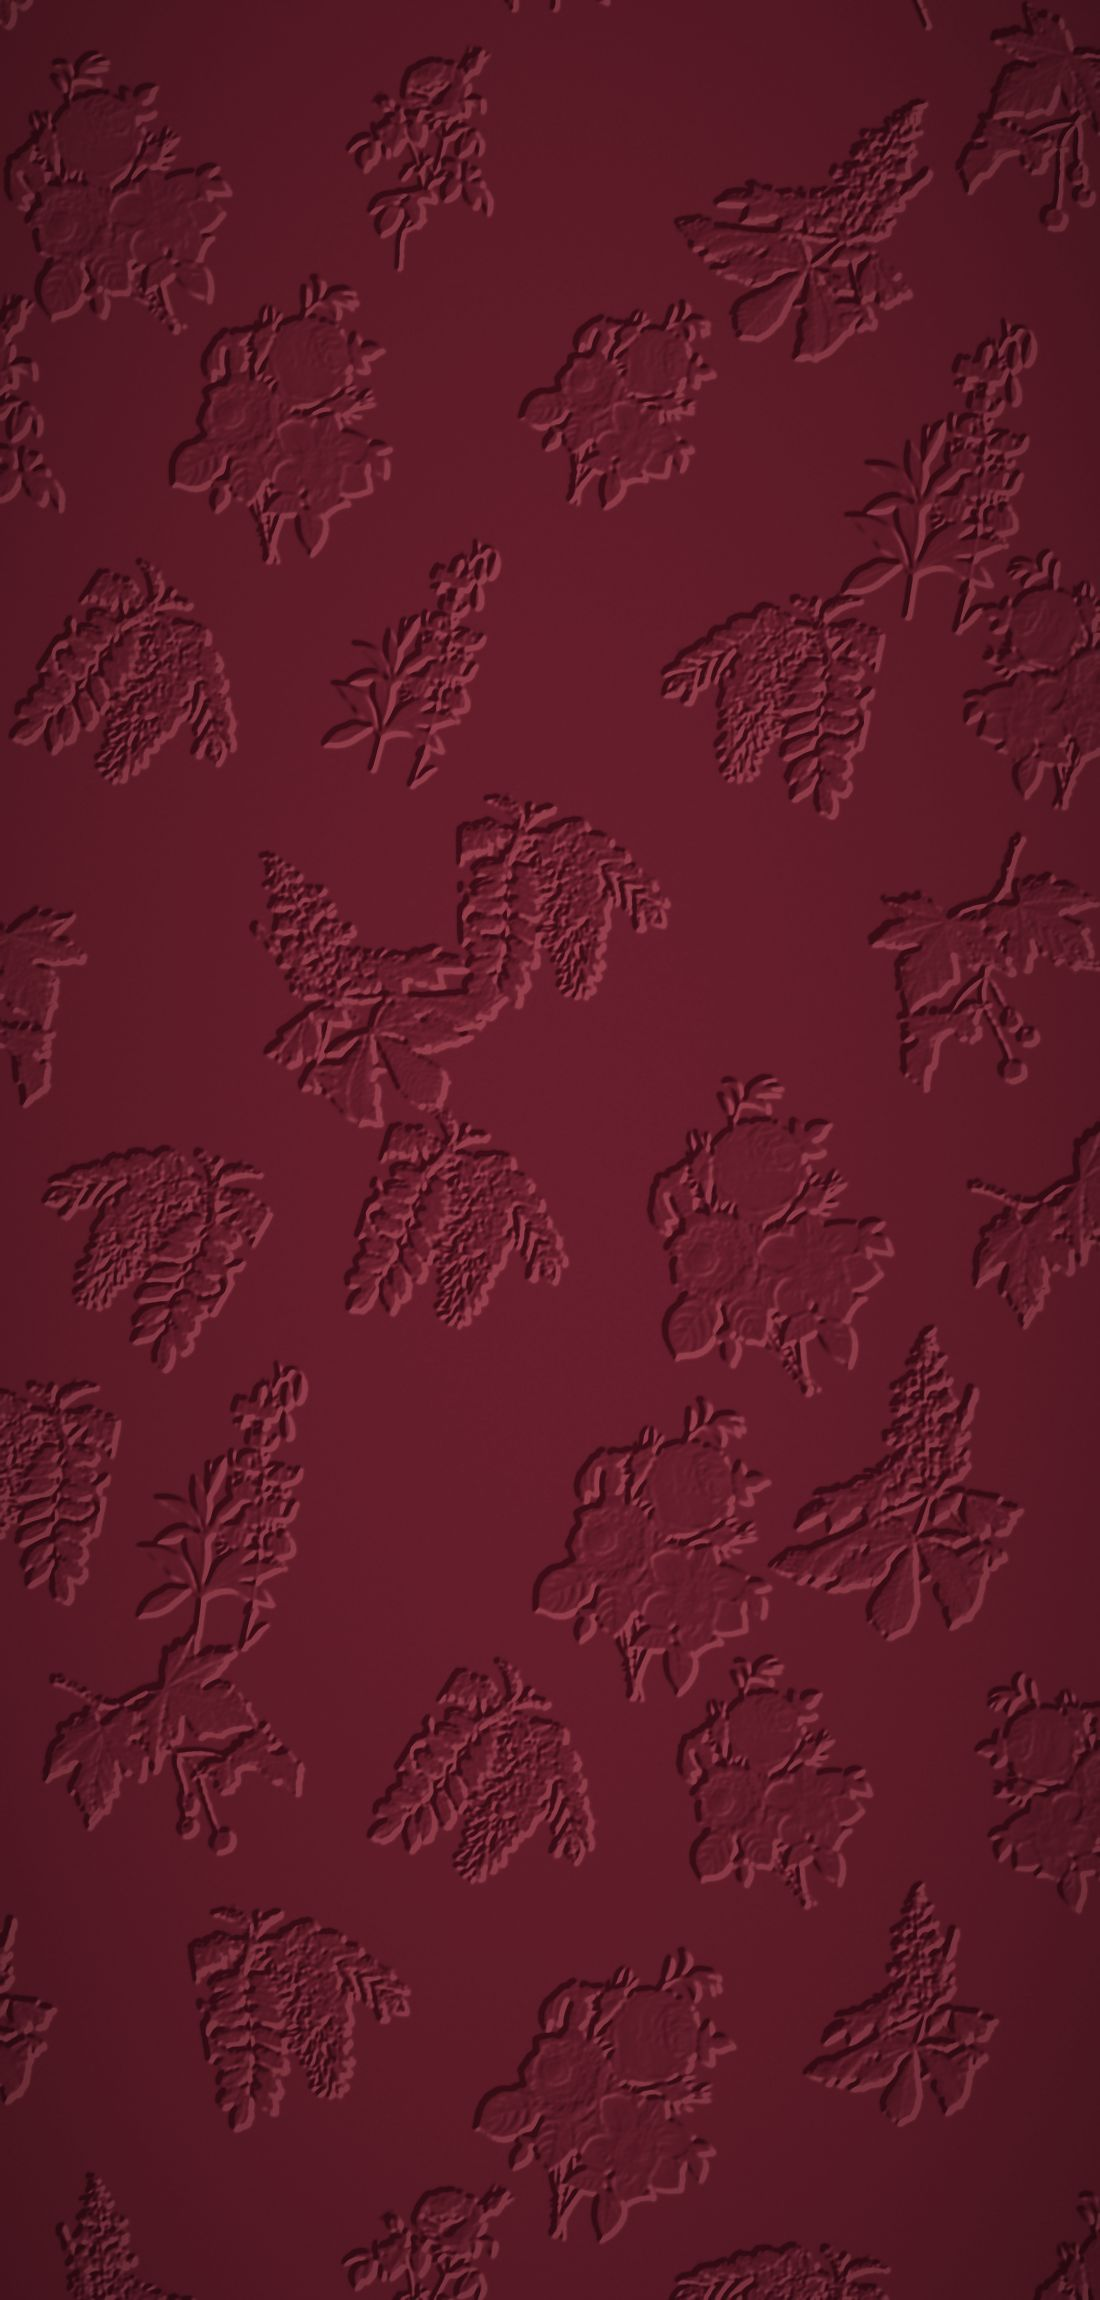
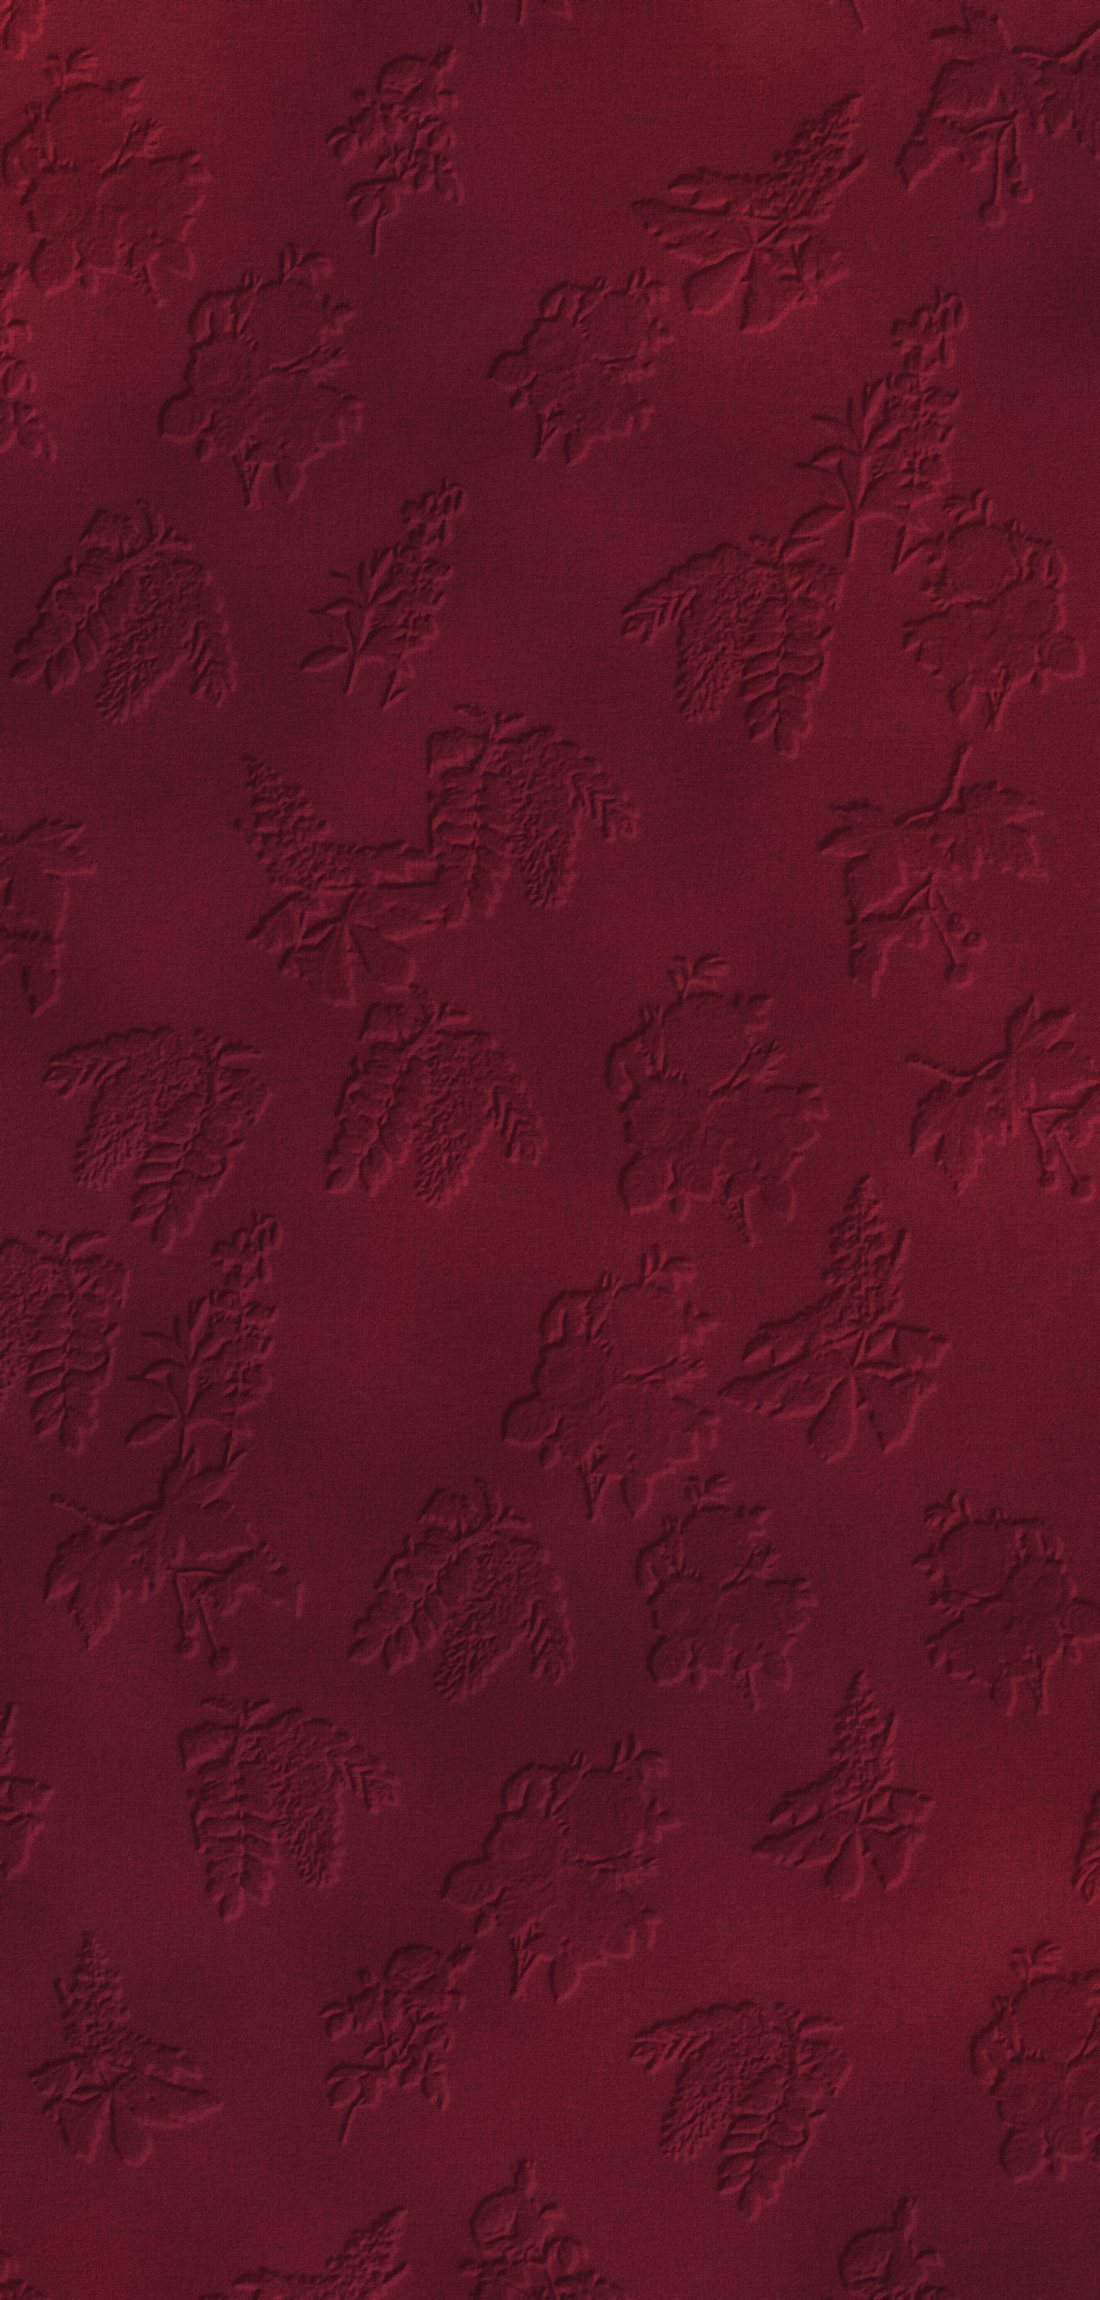
Envelope paper: matte linen weave, pressed relief, gold foil edges

diff --git a/script.js b/script.js
@@ -220,9 +220,14 @@ function buildEnvelope() {
     const flap = $(`[data-side="${side}"]`);
     const svg = fill => `<svg width="${W}" height="${H}" viewBox="0 0 ${W} ${H}">
       <defs><pattern id="dm-${side}" patternUnits="userSpaceOnUse" width="${W * 1.4}" height="${H * 1.3}" patternTransform="translate(${offset[side]})">
-        <image href="assets/damask-wine.jpg" width="${W * 1.4}" height="${H * 1.3}" preserveAspectRatio="xMidYMid slice"/></pattern></defs>
+        <image href="assets/damask-wine.jpg" width="${W * 1.4}" height="${H * 1.3}" preserveAspectRatio="xMidYMid slice"/></pattern>
+        <linearGradient id="foil-${side}" x1="0" y1="0" x2="${W}" y2="${H}" gradientUnits="userSpaceOnUse">
+          <stop offset="0" stop-color="#8a6a32"/><stop offset=".3" stop-color="#f3dc9c"/><stop offset=".5" stop-color="#b98d45"/>
+          <stop offset=".72" stop-color="#f7e6b4"/><stop offset="1" stop-color="#94703a"/>
+        </linearGradient></defs>
       <path d="${shapes[side]}" fill="${fill}" style="filter:brightness(${tone[side]})"/>
-      <path d="${shapes[side]}" fill="none" stroke="rgba(255,214,200,.18)" stroke-width="1.2"/>
+      <path d="${shapes[side]}" fill="none" stroke="rgba(30,4,10,.45)" stroke-width="3"/>
+      <path d="${shapes[side]}" fill="none" stroke="url(#foil-${side})" stroke-width="1.5"/>
     </svg>`;
     const front = $('.front', flap), back = $('.back', flap);
     $$(':scope > svg', front).forEach(n => n.remove());
